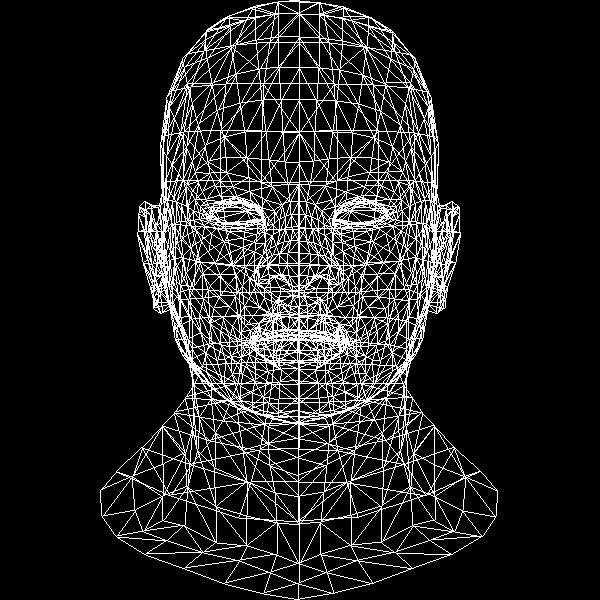
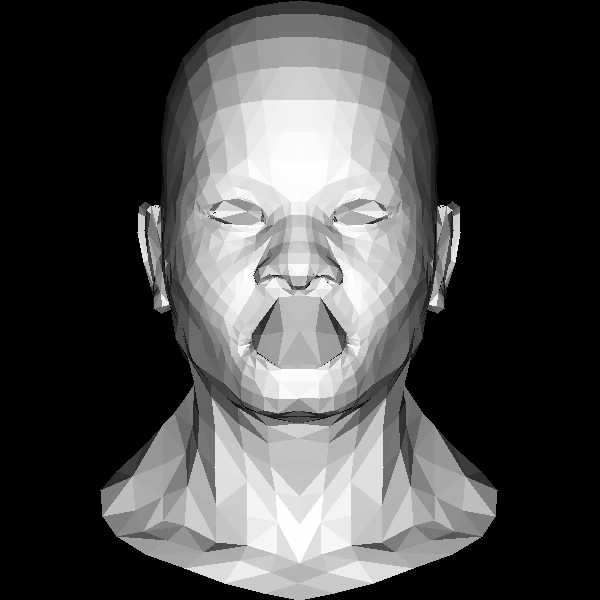
feat(v0.1.3): draw_triangle - render the head with shading

diff --git a/src/main.rs b/src/main.rs
@@ -1,78 +1,133 @@
-use image::{ImageBuffer, Pixel};
+use image::{ImageBuffer, Pixel, Primitive};
 use image::imageops::{flip_vertical_in_place};
 use std::path::Path;
 use std::ops::{DerefMut};
 use core::mem;
-use nalgebra::{Vector2};
+use nalgebra::{Vector2, Vector3};
 use tobj;
+use std::cmp::{min, max};
+use rand::Rng;
 
+#[derive(Debug)]
+pub struct Triangle(pub Vector2<i32>, pub Vector2<i32>, pub Vector2<i32>);
 
-// TODO instead of u32 use generic
-fn draw_triangle<P: 'static + Pixel, Container: DerefMut<Target=[P::Subpixel]>>
-(mut p0: Vector2<i32>, mut p1: Vector2<i32>, mut p2: Vector2<i32>, img: &mut ImageBuffer<P, Container>, pixel: P) {
-    // sort by y coordinate
-    if p0.y > p1.y { mem::swap(&mut p0, &mut p1); }
-    if p0.y > p2.y { mem::swap(&mut p0, &mut p2); }
-    if p1.y > p2.y { mem::swap(&mut p1, &mut p2); }
+#[derive(Debug)]
+pub struct Line(pub Vector2<i32>, pub Vector2<i32>);
 
-    let total_height = p2.y - p0.y;
+#[derive(Debug)]
+pub struct Box(pub Vector2<i32>, pub Vector2<i32>);
 
-    // render bottom part
-    let bottom_height = p1.y - p0.y;
-    for i in 0..bottom_height {
-        let total_height_fraction = i as f32 / total_height as f32;
-        let local_height_fraction = i as f32 / bottom_height as f32;
-        let mut from = (p0.x as f32 + (p2.x - p0.x) as f32 * total_height_fraction) as u32;
-        let mut to = (p0.x as f32 + (p1.x - p0.x) as f32 * local_height_fraction) as u32;
-        if from > to { mem::swap(&mut from, &mut to); }
-        for x in from..to {
-            img.put_pixel(x, (p0.y + i) as u32, pixel);
-        }
-    }
+impl IntoIterator for Box {
+    type Item = Vector2<i32>;
+    type IntoIter = BoxIterator;
 
-    // render top part
-    let top_height = p2.y - p1.y;
-    for i in 0..top_height {
-        let alpha = (i + bottom_height) as f32 / total_height as f32;
-        let beta = i as f32 / top_height as f32;
-        let mut from = (p0.x as f32 + (p2.x - p0.x) as f32 * alpha) as u32;
-        let mut to = (p1.x as f32 + (p2.x - p1.x) as f32 * beta) as u32;
-        if from > to { mem::swap(&mut from, &mut to); }
-        for x in from..to {
-            img.put_pixel(x, (p0.y + i + bottom_height) as u32, pixel);
+    fn into_iter(self) -> Self::IntoIter {
+        BoxIterator {
+            current: self.0,
+            bbox: self,
         }
     }
 }
 
+pub struct BoxIterator {
+    bbox: Box,
+    current: Vector2<i32>,
+}
+
+impl Iterator for BoxIterator {
+    type Item = Vector2<i32>;
+
+    fn next(&mut self) -> Option<Vector2<i32>> {
+        let x = self.current;
+        self.current.x += 1;
+        if self.current.x > self.bbox.1.x {
+            self.current.x = self.bbox.0.x;
+            self.current.y += 1;
+        };
+        if self.current.y > self.bbox.1.y {
+            return None;
+        }
+        Some(x)
+    }
+}
+
+impl Triangle {
+    fn bounding_box(&self) -> Box where {
+        let mut bboxmin = Vector2::new(i32::MAX, i32::MAX);
+        let mut bboxmax = Vector2::new(i32::MIN, i32::MIN);
+        for p in &[self.0, self.1, self.2] {
+            bboxmin.x = min(bboxmin.x, p.x);
+            bboxmax.x = max(bboxmax.x, p.x);
+            bboxmin.y = min(bboxmin.y, p.y);
+            bboxmax.y = max(bboxmax.y, p.y);
+        };
+        Box(bboxmin, bboxmax)
+    }
+
+    // triangle contains the point if all of the barycentric coordinates are positive or zero
+    fn contains(&self, point: Vector2<i32>) -> bool {
+        let coors = self.barycentric_coordinates(point);
+        !(coors.x < 0. || coors.y < 0. || coors.z < 0.)
+    }
+
+    // compute barycentric coordinates of point p with respect to the triangle
+    // https://en.wikipedia.org/wiki/Barycentric_coordinate_system
+    fn barycentric_coordinates(&self, p: Vector2<i32>) -> Vector3<f32> {
+        // vector AB_x, AC_x, and PA_x
+        let x = Vector3::new(self.2.x - self.0.x, self.1.x - self.0.x, self.0.x - p.x);
+        // vector AB_y, AC_y, and PA_y
+        let y = Vector3::new(self.2.y - self.0.y, self.1.y - self.0.y, self.0.y - p.y);
+        // find cross-product, i.e. orthogonal vector to both of the previous vectors
+        let u = x.cross(&y);
+        if u.z.abs() < 1 { return Vector3::new(-1., 1., 1.); }
+        // and finally calculate the barycentric coordinates
+        Vector3::new(1. - (u.x + u.y) as f32 / u.z as f32, u.y as f32 / u.z as f32, u.x as f32 / u.z as f32)
+    }
+}
+
+// TODO instead of u32 use generic
+fn draw_triangle<P: 'static + Pixel, Container: DerefMut<Target=[P::Subpixel]>>(mut t: Triangle, img: &mut ImageBuffer<P, Container>, pixel: P) {
+    let mut bbox = t.bounding_box();
+    if bbox.0.x < 0 { bbox.0.x = 0 };
+    if bbox.1.x > img.width() as i32 - 1 { bbox.1.x = img.width() as i32 - 1 };
+    if bbox.0.y < 0 { bbox.0.y = 0 };
+    if bbox.1.y > img.height() as i32 - 1 { bbox.1.x = img.height() as i32 - 1 };
+    for p in bbox.into_iter().filter(|&p| t.contains(p)) {
+        img.put_pixel(p.x as u32, p.y as u32, pixel);
+    }
+}
+
 // TODO: instead of u32 use generic
-fn draw_line<P: 'static + Pixel, Container: DerefMut<Target=[P::Subpixel]>>(mut x0: u32, mut y0: u32, mut x1: u32, mut y1: u32, img: &mut ImageBuffer<P, Container>, pixel: P) {
+fn draw_line<P: 'static + Pixel, Container: DerefMut<Target=[P::Subpixel]>>(mut l: Line, img: &mut ImageBuffer<P, Container>, pixel: P) {
     // transpose if the line is steep
     let mut steep = false;
-    if (x1 as i32 - x0 as i32).abs() < (y1 as i32 - y0 as i32).abs() {
-        mem::swap(&mut x0, &mut y0);
-        mem::swap(&mut x1, &mut y1);
+    if (l.1.x - l.0.x).abs() < (l.1.y - l.0.y).abs() {
+        let tmp = l.0.x;
+        l.0.x = l.0.y;
+        l.0.y = tmp;
+        let tmp = l.1.x;
+        l.1.x = l.1.y;
+        l.1.y = tmp;
         steep = true;
     }
     // left to right
-    if x0 > x1 {
-        mem::swap(&mut x0, &mut x1);
-        mem::swap(&mut y0, &mut y1);
+    if l.0.x > l.1.x {
+        mem::swap(&mut l.0, &mut l.1);
     }
-    let dx = x1 as i32 - x0 as i32;
-    let dy = y1 as i32 - y0 as i32;
+    let d = l.1 - l.0;
     // how much further from the real line will we get in each iteration
-    let derror2 = dy.abs() * 2;
+    let derror2 = d.y.abs() * 2;
     let mut error2 = 0;
-    let mut y = y0;
-    for x in x0..x1 {
+    let mut y = l.0.y;
+    for x in l.0.x..l.1.x {
         match steep {
-            true => img.put_pixel(y as u32, x, pixel),
-            false => img.put_pixel(x, y as u32, pixel)
+            true => img.put_pixel(y as u32, x as u32, pixel),
+            false => img.put_pixel(x as u32, y as u32, pixel)
         }
         error2 += derror2;
         if error2 > 1 {
-            if y1 > y0 { y += 1; } else { y -= 1; }
-            error2 -= dx * 2;
+            if l.1.y > l.0.y { y += 1; } else { y -= 1; }
+            error2 -= d.x * 2;
         }
     }
 }
@@ -90,17 +145,26 @@ fn render(source: &str, out: &str, width: u32, height: u32) {
         }
     }
 
-    let white = image::Rgb([255, 255, 255]);
     for face in (0..mesh.indices.len()).step_by(3) {
         let vertices = &mesh.indices[face..face + 3];
-        for i in 0..3 {
-            let v0 = &mesh.positions[(vertices[i] * 3) as usize..(vertices[i] * 3 + 3) as usize];
-            let v1 = &mesh.positions[(vertices[(i + 1) % 3] * 3) as usize..(vertices[(i + 1) % 3] * 3 + 3) as usize];
-            let x0 = (v0[0] + 1.) * width as f32 / 2. - 1.;
-            let y0 = (v0[1] + 1.) * height as f32 / 2. - 1.;
-            let x1 = (v1[0] + 1.) * width as f32 / 2. - 1.;
-            let y1 = (v1[1] + 1.) * height as f32 / 2. - 1.;
-            draw_line(x0 as u32, y0 as u32, x1 as u32, y1 as u32, &mut image, white);
+        let scale = |p: &[f32]| -> Vector2<i32> {
+            let x0 = (p[0] + 1.) * width as f32 / 2. - 1.;
+            let y0 = (p[1] + 1.) * height as f32 / 2. - 1.;
+            Vector2::new(x0 as i32, y0 as i32)
+        };
+        let get_point = |i| -> &[f32] {
+            &mesh.positions[(i * 3) as usize..(i * 3 + 3) as usize]
+        };
+        let as_vector = |p: &[f32]| -> Vector3<f32> {
+            Vector3::new(p[0], p[1], p[2])
+        };
+        let (x, y, z) = (as_vector(get_point(vertices[0])), as_vector(get_point(vertices[1])), as_vector(get_point(vertices[2])));
+        let light_dir = Vector3::new(0., 0., -1.);
+        let n = ((z - x).cross(&(y - x))).normalize();
+        let intensity = n.dot(&light_dir);
+        if intensity > 0. {
+            let t = Triangle(scale(get_point(vertices[0])), scale(get_point(vertices[1])), scale(get_point(vertices[2])));
+            draw_triangle(t, &mut image, image::Rgb([(intensity * 255.) as u8, (intensity * 255.) as u8, (intensity * 255.) as u8]));
         }
     }
     flip_vertical_in_place(&mut image);
@@ -108,18 +172,5 @@ fn render(source: &str, out: &str, width: u32, height: u32) {
 }
 
 fn main() {
-    // render("models/african_head.obj", "african_head.png", 600, 600);
-    let width = 200;
-    let height = 200;
-    let mut image: ImageBuffer<image::Rgb<u8>, Vec<u8>> = ImageBuffer::from_pixel(width, height, image::Rgb([0, 0, 0]));
-
-    let t0 = vec![Vector2::new(10, 70), Vector2::new(50, 160), Vector2::new(70, 80)];
-    let t1 = vec![Vector2::new(180, 50), Vector2::new(150, 1), Vector2::new(70, 180)];
-    let t2 = vec![Vector2::new(180, 150), Vector2::new(120, 160), Vector2::new(130, 180)];
-    draw_triangle(t0[0], t0[1], t0[2], &mut image, image::Rgb([255, 0, 0]));
-    draw_triangle(t1[0], t1[1], t1[2], &mut image, image::Rgb([255, 255, 255]));
-    draw_triangle(t2[0], t2[1], t2[2], &mut image, image::Rgb([0, 255, 0]));
-
-    flip_vertical_in_place(&mut image);
-    image.save(&Path::new("triangles.png")).unwrap();
+    render("models/african_head.obj", "african_head.png", 600, 600);
 }

diff --git a/README.md b/README.md
@@ -2,9 +2,9 @@
 
 My attempt at [Tiny Render](https://github.com/ssloy/tinyrenderer) but instead of C++ written in Rust.
 
-## [Part 1](https://github.com/ssloy/tinyrenderer/wiki/Lesson-1:-Bresenham%E2%80%99s-Line-Drawing-Algorithm)
+## [Part 1](https://github.com/ssloy/tinyrenderer/wiki/Lesson-1:-Bresenham%E2%80%99s-Line-Drawing-Algorithm) - Line Drawing Algorithm
 
-![african head](african_head.png)
+![african head](african_head_mesh.png)
 
 Drawing lines using [Bresenham's line algorithm](https://en.wikipedia.org/wiki/Bresenham%27s_line_algorithm),
 loading [Wavefront .obj](https://en.wikipedia.org/wiki/Wavefront_.obj_file) files, rendering simple mesh.
@@ -14,3 +14,10 @@ to make everything work in rust and finally decided to go with [tobj](https://do
 instead of writing my own.
 
 Some more ideas for things to render later on: https://github.com/tinyobjloader/tinyobjloader
+
+## [Part 2](https://github.com/ssloy/tinyrenderer/wiki/Lesson-2:-Triangle-rasterization-and-back-face-culling) - Triangle Rasterization
+
+![african head](african_head.png)
+
+Triangle rasterization using [Standard Algorithm](http://www.sunshine2k.de/coding/java/TriangleRasterization/TriangleRasterization.html#algo2),
+triangle rasterization using [Bresenham Algorithm](http://www.sunshine2k.de/coding/java/TriangleRasterization/TriangleRasterization.html#algo3),
